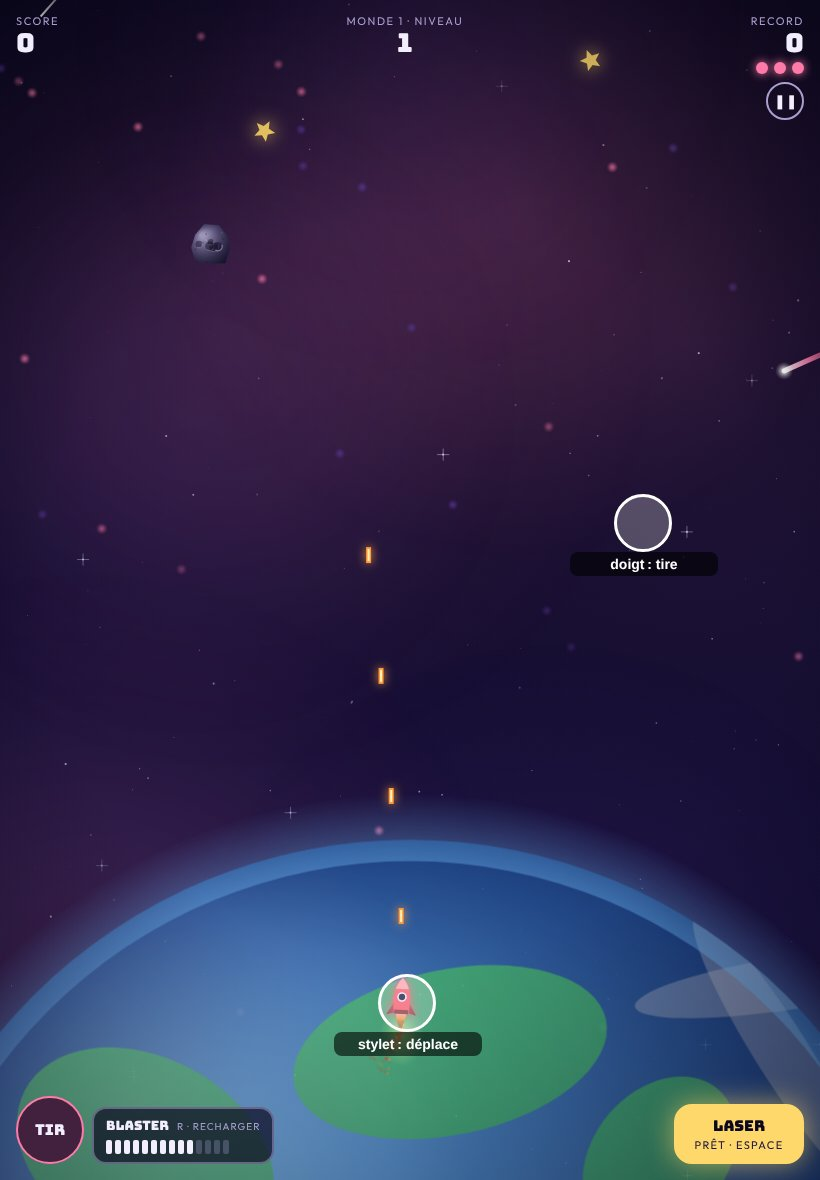
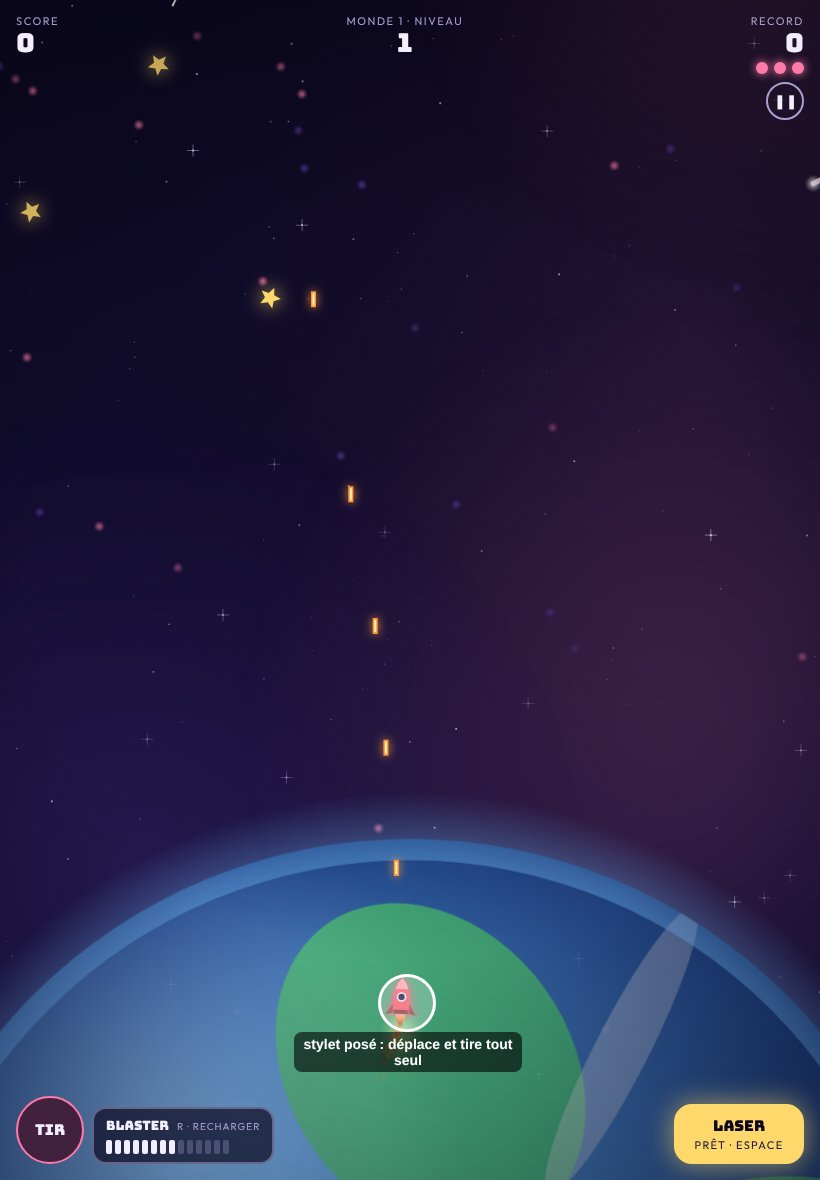
Tactile : doigts suivis avec les événements tactiles, le stylet tire tout seul
- les doigts passent par touchstart/touchmove/touchend, qui donnent la liste exacte des doigts posés
- un doigt posé avant le départ (compte à rebours) pilote bien la fusée ensuite
- sur iPad, stylet et doigts ne marchent pas en même temps : le stylet posé fait tirer la fusée toute seule

Claude-Session: https://claude.ai/code/session_01LywcCjjwg17uz9yRwXMxBR

diff --git a/index.html b/index.html
@@ -2314,8 +2314,8 @@ body:not(.jeu) .hud { opacity: 0; }
   // --- état ---
   let state = 'menu';
   let mouseFire = false, btnFire = false, infAt = null, tapShots = 0, grab = null;
-  // au doigt : le premier doigt sur l'écran déplace la fusée, les autres doigts tirent
-  let moveId = null; const fireTouches = new Set();
+  // au doigt : le premier doigt sur l'écran déplace la fusée, les autres doigts tirent ; le stylet tire tout seul
+  let moveId = null, penId = null; const fireTouches = new Set();
   let gun = GUNS[0], ammo = 0, reload = null, golden = false, infinite = 0;
   let zapT = 0, missT = 0, zaps = [];
   let run = { perfect: 0, bossHit: false, clean: true, nextLife: 2500, credited: 0, bestBefore: 0, lives: 0, bosses: 0 }, bh = null, starT = 0, cloneT = 0, ringT = 0;
@@ -5643,7 +5643,7 @@ body:not(.jeu) .hud { opacity: 0; }
   // dialogue après la défaite : le jeu s'arrête, une ligne à la fois, on touche pour passer
   function openTalk() {
     if (!talkQ.length || state !== 'play') return;
-    state = 'talk'; mouseFire = btnFire = false; tapShots = 0; grab = null; moveId = null; fireTouches.clear();
+    state = 'talk'; mouseFire = btnFire = false; tapShots = 0; grab = null; moveId = penId = null; fireTouches.clear();
     for (const id of ['pauseBtn', 'powerBtn', 'weapons', 'sayBubble']) $(id).hidden = true;
     if (!seenTalks.includes(talkId)) { seenTalks.push(talkId); try { localStorage.setItem('comete-dialogues', JSON.stringify(seenTalks)); } catch (e) {} }
     $('talk').hidden = false; talkShow();
@@ -5858,55 +5858,87 @@ body:not(.jeu) .hud { opacity: 0; }
   });
   addEventListener('keyup', e => { keys[e.key.toLowerCase()] = false; });
   // au doigt, la fusée se place un peu au-dessus pour rester visible
-  const pt = e => {
+  const pt = (x, y, kind) => {
     // si on a attrapé la fusée, elle garde sa place sous le doigt (ou le stylet)
-    if (grab && e.pointerType !== 'mouse') target = { x: e.clientX + grab.dx, y: e.clientY + grab.dy };
-    else target = { x: e.clientX, y: e.clientY - (e.pointerType === 'touch' ? 70 : 0) };
+    if (grab && kind !== 'mouse') target = { x: x + grab.dx, y: y + grab.dy };
+    else target = { x, y: y - (kind === 'touch' ? 70 : 0) };
   };
-  // doigts et stylet posés en ce moment (écoutés en premier, pour ne jamais en perdre un)
-  const downIds = new Set();
-  addEventListener('pointerdown', e => { if (e.pointerType !== 'mouse') downIds.add(e.pointerId); }, true);
-  cv.addEventListener('pointerdown', e => {
-    if (e.pointerType !== 'mouse' && state === 'play') {
-      // un doigt levé sans qu'on l'ait vu ne doit pas bloquer le déplacement
-      if (moveId !== null && !downIds.has(moveId)) { moveId = null; grab = null; }
-      // un doigt (ou le stylet) déplace déjà la fusée : celui-ci tire (une tape = un tir, maintenu = tir continu)
-      if (moveId !== null && moveId !== e.pointerId) {
-        fireTouches.add(e.pointerId);
+  // toucher la fusée : on l'attrape et elle tire une fois (on peut taper plusieurs fois de suite)
+  const grabAt = (x, y) => {
+    grab = null;
+    if (state === 'play' && Math.hypot(x - player.x, y - player.y) < 70) {
+      grab = { dx: player.x - x, dy: player.y - y };
+      tapShots = Math.min(3, tapShots + 1);
+    }
+  };
+  // --- les doigts (événements tactiles : ils donnent la liste exacte des doigts posés) ---
+  // le premier doigt déplace la fusée ; chaque autre doigt posé n'importe où tire
+  // (une tape = un tir, maintenu = tir continu)
+  const isFinger = t => t.touchType !== 'stylus';
+  const stillDown = (id, list) => { for (const t of list) if (t.identifier === id) return t; return null; };
+  cv.addEventListener('touchstart', e => {
+    if (e.cancelable) e.preventDefault(); // pas de zoom, de loupe ni de geste du navigateur sur le jeu
+    if (penId !== null) return; // le stylet est posé : c'est lui qui pilote
+    if (moveId !== null && !stillDown(moveId, e.touches)) { moveId = null; grab = null; }
+    for (const t of e.changedTouches) {
+      if (!isFinger(t)) continue;
+      if (moveId === null) {
+        moveId = t.identifier;
+        grabAt(t.clientX, t.clientY);
+        if (!grab) pt(t.clientX, t.clientY, 'touch');
+      } else if (state === 'play') {
+        fireTouches.add(t.identifier);
         tapShots = Math.min(3, tapShots + 1);
-        return;
-      }
-      moveId = e.pointerId;
-      // au doigt : toucher la fusée tire une fois (on peut taper plusieurs fois de suite)
-      if (Math.hypot(e.clientX - player.x, e.clientY - player.y) < 70) {
-        grab = { dx: player.x - e.clientX, dy: player.y - e.clientY };
-        tapShots = Math.min(3, tapShots + 1);
-        return;
       }
     }
-    grab = null; pt(e);
-    if (e.pointerType === 'mouse' && e.button === 0) mouseFire = true;
-  });
-  const touchUp = e => {
-    downIds.delete(e.pointerId);
-    fireTouches.delete(e.pointerId);
-    if (e.pointerId === moveId) { moveId = null; grab = null; }
+  }, { passive: false });
+  cv.addEventListener('touchmove', e => {
+    if (e.cancelable) e.preventDefault();
+    if (penId !== null) return;
+    let t = moveId !== null && stillDown(moveId, e.touches);
+    // plus de doigt qui pilote : le doigt qui bouge prend la main
+    if (!t) for (const c of e.changedTouches) if (isFinger(c)) { t = c; moveId = c.identifier; fireTouches.delete(c.identifier); grab = null; break; }
+    if (t) pt(t.clientX, t.clientY, 'touch');
+  }, { passive: false });
+  const touchEnd = e => {
+    for (const t of e.changedTouches) {
+      fireTouches.delete(t.identifier);
+      if (t.identifier === moveId) { moveId = null; grab = null; }
+    }
+    // un doigt perdu en route ne doit pas tirer pour toujours
+    for (const id of fireTouches) if (!stillDown(id, e.touches)) fireTouches.delete(id);
   };
-  addEventListener('pointerup', e => { if (e.pointerType === 'mouse') mouseFire = false; else touchUp(e); }, true);
-  addEventListener('pointercancel', e => { if (e.pointerType !== 'mouse') touchUp(e); }, true);
-  // sur iPhone et iPad : empêcher le zoom, la loupe et les gestes à deux doigts, qui coupent les doigts posés sur le jeu
-  for (const ev of ['touchstart', 'touchmove']) cv.addEventListener(ev, e => { if (e.cancelable) e.preventDefault(); }, { passive: false });
+  cv.addEventListener('touchend', touchEnd);
+  cv.addEventListener('touchcancel', touchEnd);
   addEventListener('gesturestart', e => e.preventDefault());
   cv.addEventListener('dblclick', e => e.preventDefault());
+  // --- souris et stylet (événements « pointer ») ---
+  // sur iPad, le stylet et les doigts ne marchent pas en même temps : avec le stylet, la fusée tire toute seule tant qu'il est posé
+  cv.addEventListener('pointerdown', e => {
+    if (e.pointerType === 'touch') return; // les doigts sont gérés plus haut
+    if (e.pointerType === 'pen') {
+      penId = e.pointerId; moveId = null; fireTouches.clear();
+      try { cv.setPointerCapture(e.pointerId); } catch (err) {}
+      grabAt(e.clientX, e.clientY);
+      if (!grab) pt(e.clientX, e.clientY, 'pen');
+      return;
+    }
+    grab = null; pt(e.clientX, e.clientY, 'mouse');
+    if (e.button === 0) mouseFire = true;
+  });
+  cv.addEventListener('pointermove', e => {
+    if (e.pointerType === 'mouse') pt(e.clientX, e.clientY, 'mouse');
+    else if (e.pointerType === 'pen' && e.pointerId === penId) pt(e.clientX, e.clientY, 'pen');
+  });
+  const penUp = e => { if (e.pointerId === penId) { penId = null; grab = null; } };
+  addEventListener('pointerup', e => { if (e.pointerType === 'mouse') mouseFire = false; else penUp(e); }, true);
+  addEventListener('pointercancel', penUp, true);
   const fb = $('fireBtn');
   fb.addEventListener('pointerdown', e => { e.preventDefault(); btnFire = true; fb.classList.add('on'); try { fb.setPointerCapture(e.pointerId); } catch (err) {} });
   for (const ev of ['pointerup', 'pointercancel', 'lostpointercapture']) fb.addEventListener(ev, () => { btnFire = false; fb.classList.remove('on'); });
+  fb.addEventListener('touchstart', e => { if (e.cancelable) e.preventDefault(); }, { passive: false });
   $('ammoBtn').addEventListener('pointerdown', e => { e.preventDefault(); tryReload(); });
-  cv.addEventListener('pointermove', e => {
-    if (e.pointerType === 'mouse') pt(e);
-    else if (e.buttons && (moveId === null || e.pointerId === moveId)) pt(e);
-  });
-  addEventListener('blur', () => { mouseFire = btnFire = false; moveId = null; grab = null; fireTouches.clear(); downIds.clear(); for (const k in keys) keys[k] = false; if (state === 'play') togglePause(); });
+  addEventListener('blur', () => { mouseFire = btnFire = false; moveId = penId = null; grab = null; fireTouches.clear(); for (const k in keys) keys[k] = false; if (state === 'play') togglePause(); });
 
   // un niveau dure plus longtemps dans les mondes lointains (20 s, puis 26, 32, 38, 44)
   const levelSecs = () => 20 + world * 6;
@@ -5987,7 +6019,7 @@ body:not(.jeu) .hud { opacity: 0; }
     if (reload) {
       reload.t += dt;
       if (reload.t >= reload.dur) finishReload(false);
-    } else if ((keys['f'] || keys['j'] || keys['x'] || mouseFire || btnFire || fireTouches.size > 0 || nova || tapShots > 0) && fireT <= 0) {
+    } else if ((keys['f'] || keys['j'] || keys['x'] || mouseFire || btnFire || fireTouches.size > 0 || (penId !== null && state === 'play') || nova || tapShots > 0) && fireT <= 0) {
       if (tapShots > 0) tapShots--;
       fireT = gun.rate * (nova ? .33 : infinite ? .7 : 1);
       if (!infinite && !nova) ammo--;
